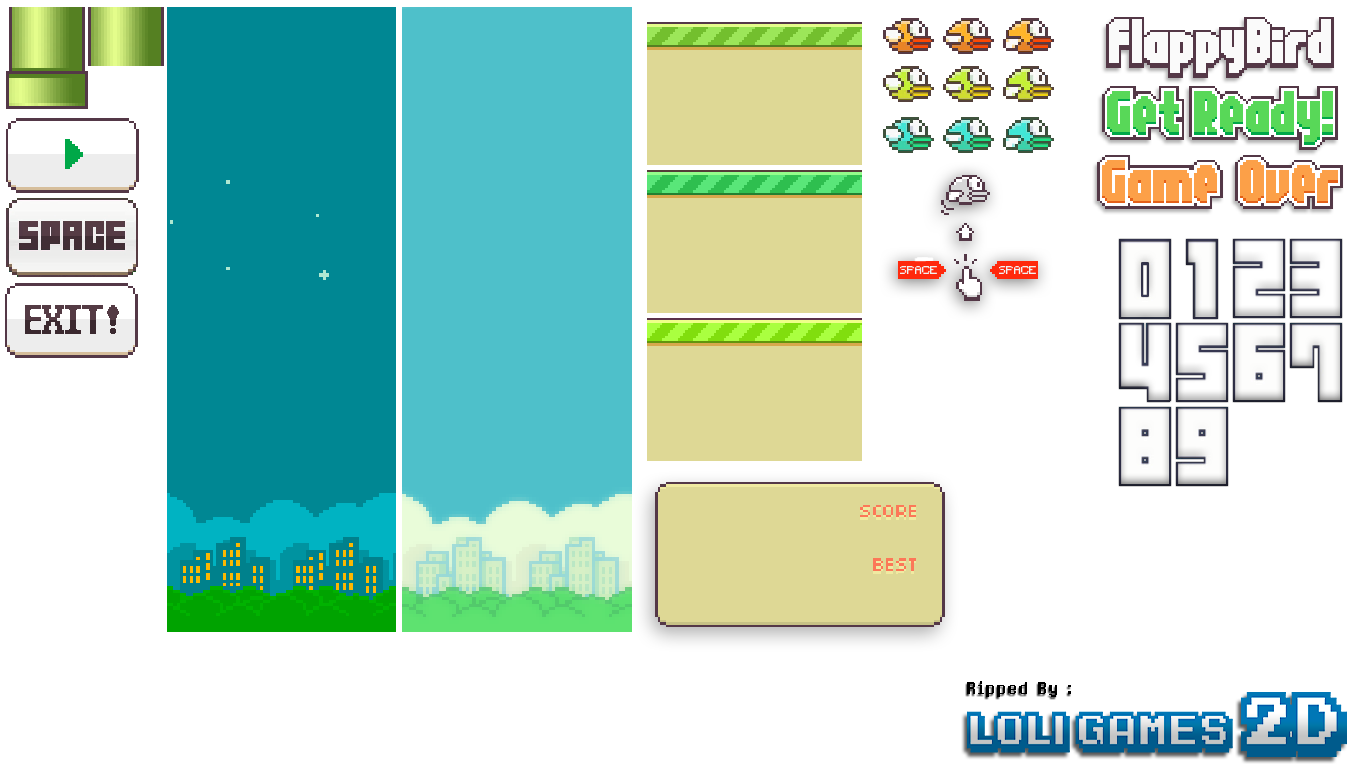
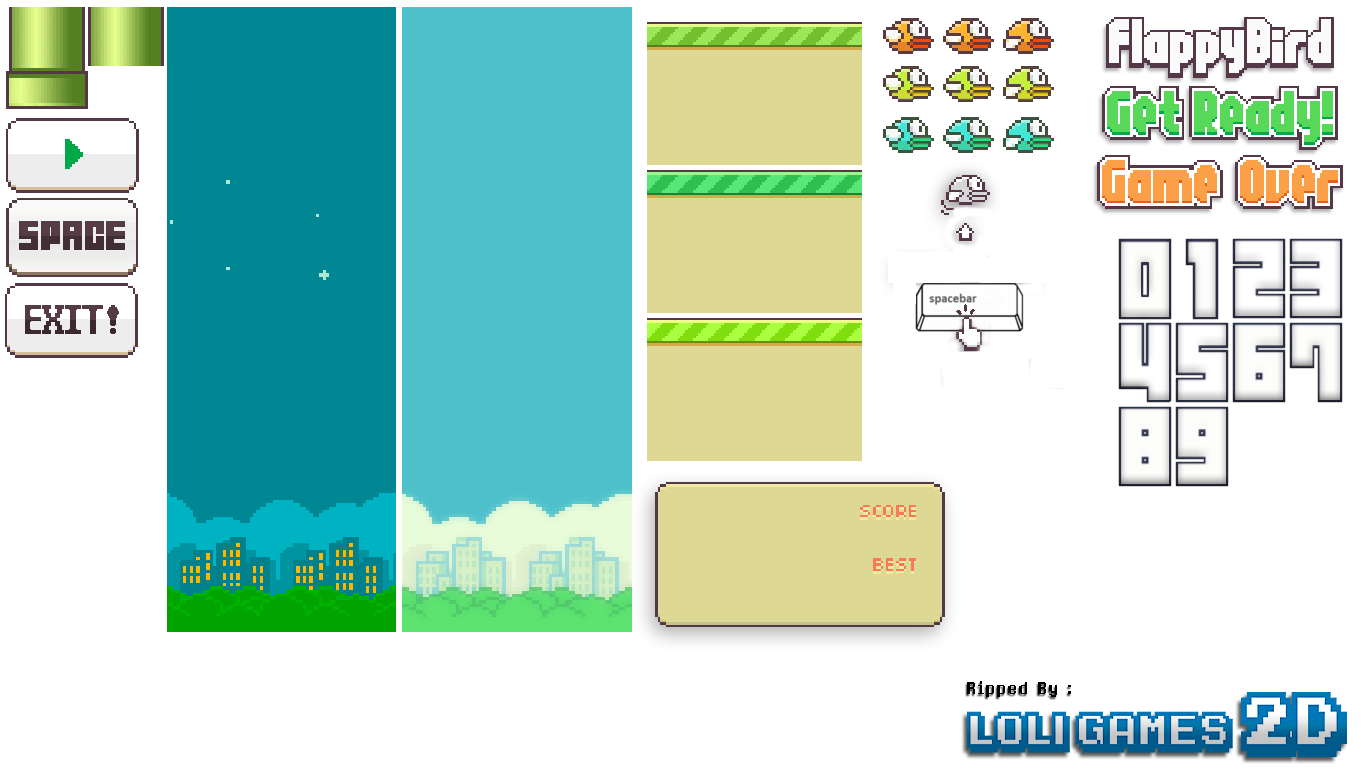
done for the day

Changed region(s): [[0.6447, 0.3125, 0.7675, 0.4688]]

diff --git a/happy_bird.js b/happy_bird.js
@@ -262,11 +262,11 @@ document.addEventListener("DOMContentLoaded", () => {
 /* harmony import */ var __WEBPACK_IMPORTED_MODULE_1__foreground_js__ = __webpack_require__(5);
 /* harmony import */ var __WEBPACK_IMPORTED_MODULE_2__tree_js__ = __webpack_require__(6);
 /* harmony import */ var __WEBPACK_IMPORTED_MODULE_3__background_js__ = __webpack_require__(7);
-/* harmony import */ var __WEBPACK_IMPORTED_MODULE_4__pipe_js__ = __webpack_require__(8);
-/* harmony import */ var __WEBPACK_IMPORTED_MODULE_5__score_js__ = __webpack_require__(9);
-/* harmony import */ var __WEBPACK_IMPORTED_MODULE_6__scoreCard__ = __webpack_require__(10);
-/* harmony import */ var __WEBPACK_IMPORTED_MODULE_7__splashScreen_js__ = __webpack_require__(11);
-/* harmony import */ var __WEBPACK_IMPORTED_MODULE_8__highscore_js__ = __webpack_require__(13);
+/* harmony import */ var __WEBPACK_IMPORTED_MODULE_4__pipe_js__ = __webpack_require__(9);
+/* harmony import */ var __WEBPACK_IMPORTED_MODULE_5__score_js__ = __webpack_require__(10);
+/* harmony import */ var __WEBPACK_IMPORTED_MODULE_6__scoreCard__ = __webpack_require__(11);
+/* harmony import */ var __WEBPACK_IMPORTED_MODULE_7__splashScreen_js__ = __webpack_require__(12);
+/* harmony import */ var __WEBPACK_IMPORTED_MODULE_8__highscore_js__ = __webpack_require__(14);
 
 
 
@@ -461,7 +461,7 @@ class Game {
   gameRunningScreen() {
     this.assetsMaker();
     this.checkCollisions();
-    this.background.update();
+    this.background.update(this.score);
     this.scoreTracker.render();
     this._assetsUpdater(this.trees, true);
     this._assetsUpdater(this.bird, false);
@@ -470,7 +470,10 @@ class Game {
         if (!pipe.checked) {
           pipe.checked = true;
           this.score += .5;
+        }
+        if (pipe.top){
           this.pointSound.play();
+
         }
       }
       this._assetsUpdater(pipe, true);
@@ -551,7 +554,7 @@ class Bird {
   constructor(canvas, ctx, xPos, width, height, state) {
     this.canvas = canvas;
     this.ctx = canvas.getContext('2d');
-    this.gravity = .4;
+    this.gravity = .5;
     this.xPos = xPos;
     this.width = width;
     this.height = height;
@@ -844,7 +847,7 @@ class Tree {
 /***/ (function(module, __webpack_exports__, __webpack_require__) {
 
 "use strict";
-/* harmony import */ var __WEBPACK_IMPORTED_MODULE_0__backGroundAnimation_js__ = __webpack_require__(14);
+/* harmony import */ var __WEBPACK_IMPORTED_MODULE_0__backGroundAnimation_js__ = __webpack_require__(8);
 
 
 class Background {
@@ -852,33 +855,52 @@ class Background {
     this.canvas = canvas;
     this.ctx = ctx;
     this.xPos = 0;
-    this.time = 'day';
+    this.time = true;
+    this.changedBackground = false;
     this.speed = speed / 7;
     this.width = 230;
     this.bgImg = new Image();
-    this.bgImg.src = 'res/TheBird2.png';
+    this.bgImg.src = 'res/TheBird.png';
+    this.update = this.update.bind(this);
   }
 
 
 
 update(score) {
+
     this.xPos -= this.speed;
     if (this.xPos < -this.width) {
       this.xPos = 0;
     }
+    if (score % 10 === 0 && !this.changedBackground) {
+      this.changedBackground = true;
+      this.time = !this.time;
+    } else if (score % 10 === 0 && this.changedBackground) {
+      this.changedBackground = true;
+    } else {
+      this.changedBackground = false;
+    }
   }
 
 render() {
+
+  let sprite;
+  if (this.time) {
+    sprite = __WEBPACK_IMPORTED_MODULE_0__backGroundAnimation_js__["a" /* backgroundAnimation */].day;
+  } else {
+    sprite = __WEBPACK_IMPORTED_MODULE_0__backGroundAnimation_js__["a" /* backgroundAnimation */].night;
+  }
+  this.width = sprite.width;
     for (var i = 0; i < this.canvas.width / this.width + 1; i++) {
       this.ctx.drawImage(this.bgImg,
-        __WEBPACK_IMPORTED_MODULE_0__backGroundAnimation_js__["a" /* backgroundAnimation */].day.x,
-        __WEBPACK_IMPORTED_MODULE_0__backGroundAnimation_js__["a" /* backgroundAnimation */].day.y,
-        __WEBPACK_IMPORTED_MODULE_0__backGroundAnimation_js__["a" /* backgroundAnimation */].day.width,
-        __WEBPACK_IMPORTED_MODULE_0__backGroundAnimation_js__["a" /* backgroundAnimation */].day.height,
+      sprite.x,
+      sprite.y,
+      sprite.width,
+      sprite.height,
         this.xPos + i * this.width,
         0,
-        __WEBPACK_IMPORTED_MODULE_0__backGroundAnimation_js__["a" /* backgroundAnimation */].day.width,
-        __WEBPACK_IMPORTED_MODULE_0__backGroundAnimation_js__["a" /* backgroundAnimation */].day.height
+      sprite.width,
+      sprite.height
        );
     }
   }
@@ -889,6 +911,30 @@ render() {
 
 /***/ }),
 /* 8 */
+/***/ (function(module, __webpack_exports__, __webpack_require__) {
+
+"use strict";
+const backgroundAnimation = {
+  day: {
+    x: 402,
+    y: 8,
+    width: 632 - 402,
+    height: 624,
+  },
+  night: {
+    x: 167,
+    y: 8,
+    width: 396 - 167,
+    height: 624,
+  }
+
+};
+/* harmony export (immutable) */ __webpack_exports__["a"] = backgroundAnimation;
+
+
+
+/***/ }),
+/* 9 */
 /***/ (function(module, __webpack_exports__, __webpack_require__) {
 
 "use strict";
@@ -939,7 +985,7 @@ class Pipe {
 
 
 /***/ }),
-/* 9 */
+/* 10 */
 /***/ (function(module, __webpack_exports__, __webpack_require__) {
 
 "use strict";
@@ -1013,7 +1059,7 @@ if (this.score < 10) {
 
 
 /***/ }),
-/* 10 */
+/* 11 */
 /***/ (function(module, __webpack_exports__, __webpack_require__) {
 
 "use strict";
@@ -1152,11 +1198,11 @@ class ScoreCard {
 
 
 /***/ }),
-/* 11 */
+/* 12 */
 /***/ (function(module, __webpack_exports__, __webpack_require__) {
 
 "use strict";
-/* harmony import */ var __WEBPACK_IMPORTED_MODULE_0__splashAnimations_js__ = __webpack_require__(12);
+/* harmony import */ var __WEBPACK_IMPORTED_MODULE_0__splashAnimations_js__ = __webpack_require__(13);
 
 
 class SplashScreen {
@@ -1168,7 +1214,7 @@ class SplashScreen {
     this.xPos = this.canvas.width / 2 - this.width / 2;
     this.yPos = this.canvas.height / 2 - this.height/ 2;
     this.image = new Image();
-    this.image.src = 'res/TheBird2.png';
+    this.image.src = 'res/TheBird.png';
 
   }
 
@@ -1195,7 +1241,7 @@ class SplashScreen {
       this.xPos,
       this.yPos,
       this.width,
-      this.height
+      __WEBPACK_IMPORTED_MODULE_0__splashAnimations_js__["a" /* splashAnimation */].tapIcon.height
     );
   }
 }
@@ -1204,7 +1250,7 @@ class SplashScreen {
 
 
 /***/ }),
-/* 12 */
+/* 13 */
 /***/ (function(module, __webpack_exports__, __webpack_require__) {
 
 "use strict";
@@ -1219,7 +1265,7 @@ const splashAnimation = {
     x: 898,
     y: 175,
     width: 1042 - 890,
-    height: 302 - 169,
+    height: 352 - 175,
   }
 
 };
@@ -1228,7 +1274,7 @@ const splashAnimation = {
 
 
 /***/ }),
-/* 13 */
+/* 14 */
 /***/ (function(module, __webpack_exports__, __webpack_require__) {
 
 "use strict";
@@ -1267,30 +1313,6 @@ class Highscore {
 
 
 /* harmony default export */ __webpack_exports__["a"] = (Highscore);
-
-
-/***/ }),
-/* 14 */
-/***/ (function(module, __webpack_exports__, __webpack_require__) {
-
-"use strict";
-const backgroundAnimation = {
-  day: {
-    x: 402,
-    y: 8,
-    width: 632 - 402,
-    height: 624,
-  },
-  night: {
-    x: 167,
-    y: 8,
-    width: 632 - 402,
-    height: 624,
-  }
-
-};
-/* harmony export (immutable) */ __webpack_exports__["a"] = backgroundAnimation;
-
 
 
 /***/ })

diff --git a/lib/background.js b/lib/background.js
@@ -5,33 +5,52 @@ class Background {
     this.canvas = canvas;
     this.ctx = ctx;
     this.xPos = 0;
-    this.time = 'day';
+    this.time = true;
+    this.changedBackground = false;
     this.speed = speed / 7;
     this.width = 230;
     this.bgImg = new Image();
-    this.bgImg.src = 'res/TheBird2.png';
+    this.bgImg.src = 'res/TheBird.png';
+    this.update = this.update.bind(this);
   }
 
 
 
 update(score) {
+
     this.xPos -= this.speed;
     if (this.xPos < -this.width) {
       this.xPos = 0;
     }
+    if (score % 10 === 0 && !this.changedBackground) {
+      this.changedBackground = true;
+      this.time = !this.time;
+    } else if (score % 10 === 0 && this.changedBackground) {
+      this.changedBackground = true;
+    } else {
+      this.changedBackground = false;
+    }
   }
 
 render() {
+
+  let sprite;
+  if (this.time) {
+    sprite = backgroundAnimation.day;
+  } else {
+    sprite = backgroundAnimation.night;
+  }
+  this.width = sprite.width;
     for (var i = 0; i < this.canvas.width / this.width + 1; i++) {
       this.ctx.drawImage(this.bgImg,
-        backgroundAnimation.day.x,
-        backgroundAnimation.day.y,
-        backgroundAnimation.day.width,
-        backgroundAnimation.day.height,
+      sprite.x,
+      sprite.y,
+      sprite.width,
+      sprite.height,
         this.xPos + i * this.width,
         0,
-        backgroundAnimation.day.width,
-        backgroundAnimation.day.height
+      sprite.width,
+      sprite.height
        );
     }
   }

diff --git a/lib/game.js b/lib/game.js
@@ -192,7 +192,7 @@ class Game {
   gameRunningScreen() {
     this.assetsMaker();
     this.checkCollisions();
-    this.background.update();
+    this.background.update(this.score);
     this.scoreTracker.render();
     this._assetsUpdater(this.trees, true);
     this._assetsUpdater(this.bird, false);
@@ -201,7 +201,10 @@ class Game {
         if (!pipe.checked) {
           pipe.checked = true;
           this.score += .5;
+        }
+        if (pipe.top){
           this.pointSound.play();
+
         }
       }
       this._assetsUpdater(pipe, true);

diff --git a/lib/splashScreen.js b/lib/splashScreen.js
@@ -9,7 +9,7 @@ class SplashScreen {
     this.xPos = this.canvas.width / 2 - this.width / 2;
     this.yPos = this.canvas.height / 2 - this.height/ 2;
     this.image = new Image();
-    this.image.src = 'res/TheBird2.png';
+    this.image.src = 'res/TheBird.png';
 
   }
 
@@ -36,7 +36,7 @@ class SplashScreen {
       this.xPos,
       this.yPos,
       this.width,
-      this.height
+      splashAnimation.tapIcon.height
     );
   }
 }

diff --git a/lib/bird.js b/lib/bird.js
@@ -6,7 +6,7 @@ class Bird {
   constructor(canvas, ctx, xPos, width, height, state) {
     this.canvas = canvas;
     this.ctx = canvas.getContext('2d');
-    this.gravity = .4;
+    this.gravity = .5;
     this.xPos = xPos;
     this.width = width;
     this.height = height;

diff --git a/lib/backGroundAnimation.js b/lib/backGroundAnimation.js
@@ -8,7 +8,7 @@ export const backgroundAnimation = {
   night: {
     x: 167,
     y: 8,
-    width: 632 - 402,
+    width: 396 - 167,
     height: 624,
   }
 

diff --git a/lib/splashAnimations.js b/lib/splashAnimations.js
@@ -9,7 +9,7 @@ export const splashAnimation = {
     x: 898,
     y: 175,
     width: 1042 - 890,
-    height: 302 - 169,
+    height: 352 - 175,
   }
 
 };
